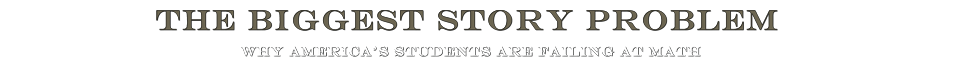
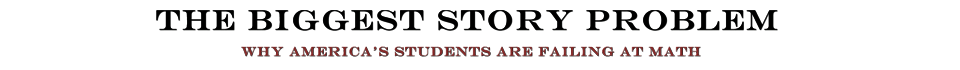
updated to red title and nav

Changed region(s): [[0.1562, 0.1429, 0.8125, 0.4286], [0.25, 0.6571, 0.75, 0.8]]

diff --git a/public/stylesheets/application/application.css b/public/stylesheets/application/application.css
@@ -19,7 +19,7 @@ width: 960px;
 color: #CDD2DA;
 font-size: 16px;
 font-weight: 700;
-text-shadow: 0px 1px 4px black;
+text-shadow: 0px 1px 1px black;
 }
 
 /*************************************************************************************************************************************/
@@ -54,7 +54,7 @@ body {overflow: hidden;}
 #main_nav li a {
 	position: relative;
 	display:block;
-	color: #6a6450;
+	color: #7f2423;
 	font-weight: 700;
 	font-size: 16px;
 	text-shadow: 0px 1px 1px #ffecd3;
